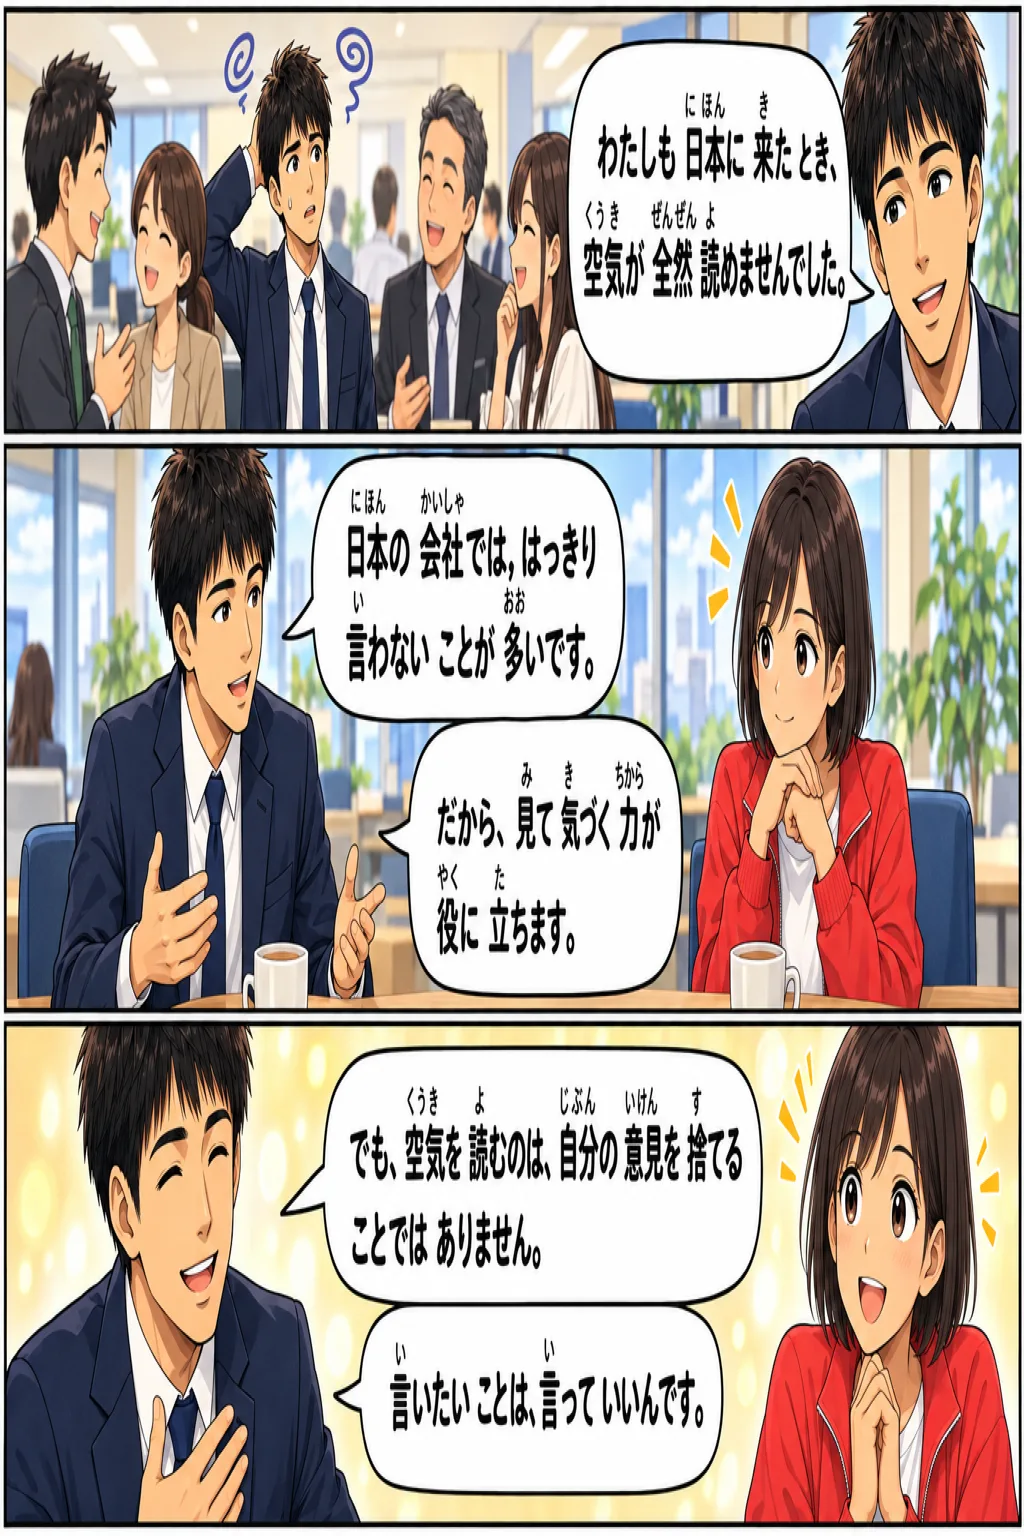
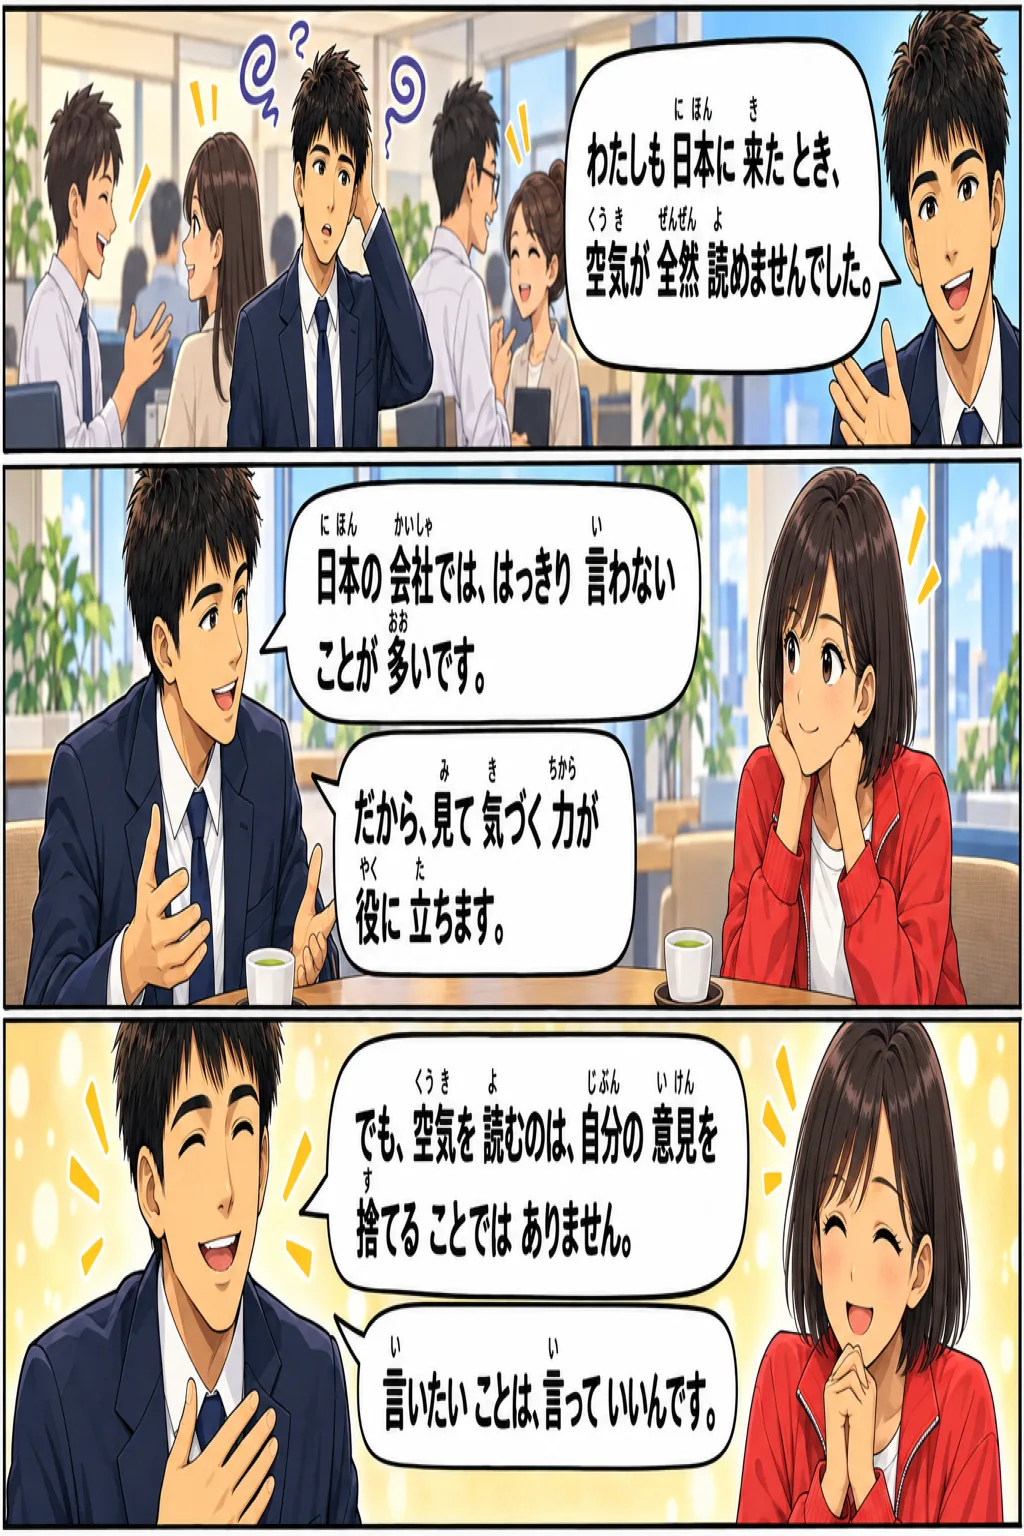
まんが「空気を読む」p09 を作り直す（読点が「，」の形になっていた）

diff --git a/src/content/asset-versions.generated.ts b/src/content/asset-versions.generated.ts
@@ -986,7 +986,7 @@ export const ASSET_VERSIONS: Readonly<Record<string, string>> = {
   "/img/manga/kuuki_manga/p06.webp": "186bd9e6",
   "/img/manga/kuuki_manga/p07.webp": "516d59d0",
   "/img/manga/kuuki_manga/p08.webp": "80ad9f47",
-  "/img/manga/kuuki_manga/p09.webp": "3928f5ce",
+  "/img/manga/kuuki_manga/p09.webp": "6caca696",
   "/img/manga/kuuki_manga/p10.webp": "170a80aa",
   "/img/manga/m2-asakai-manga/panel1.webp": "42ecf7f6",
   "/img/manga/m2-asakai-manga/panel2.webp": "243e2046",
